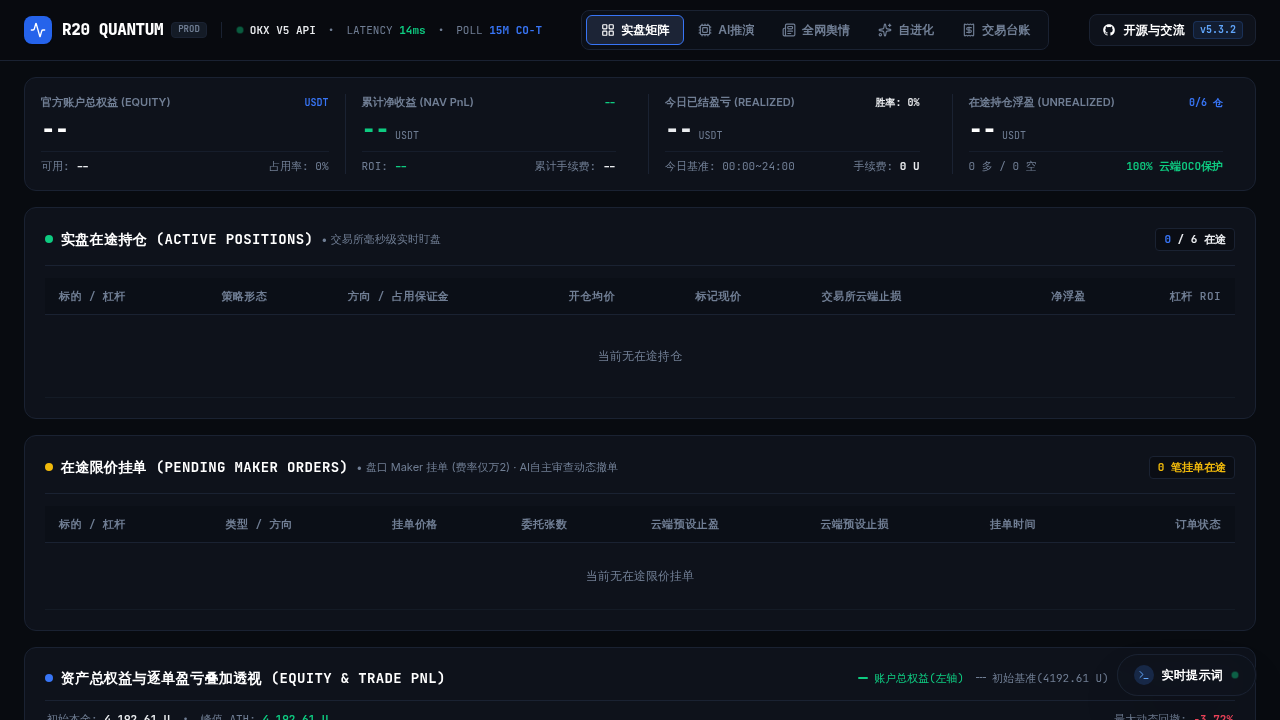
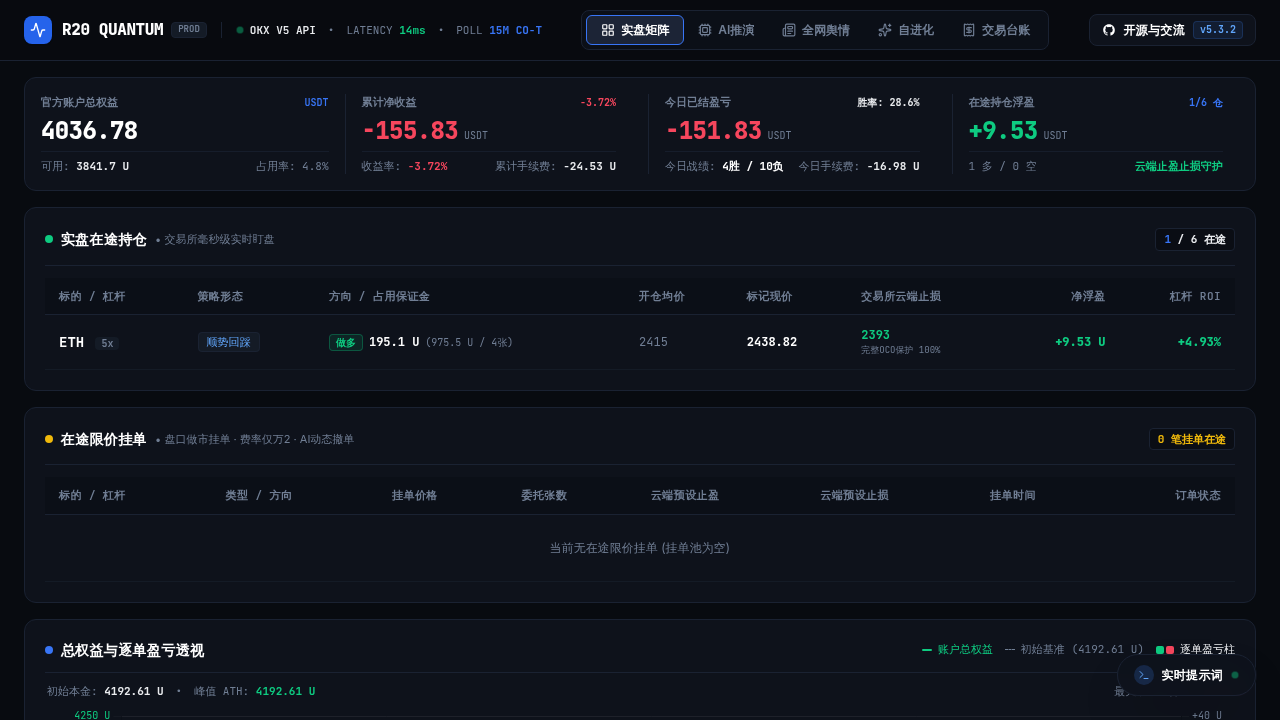
style(ui): simplify chart title, clean up KPI hero metrics layout, and remove redundant English label suffixes across all modules

diff --git a/dashboard/templates/index.html b/dashboard/templates/index.html
@@ -243,10 +243,10 @@
             <div class="terminal-panel p-3.5 sm:p-4">
                 <div class="grid grid-cols-2 lg:grid-cols-4 gap-3 sm:gap-4 divide-y lg:divide-y-0 lg:divide-x divide-[#1A2232]">
                     
-                    <!-- Tile 1: 账户总权益 (Total Equity) -->
+                    <!-- Tile 1: 官方账户总权益 -->
                     <div class="flex flex-col justify-between pt-2 lg:pt-0 lg:px-2 first:pt-0 first:px-0">
                         <div class="flex items-center justify-between text-[11px] text-[#707E94] font-semibold">
-                            <span>官方账户总权益 (EQUITY)</span>
+                            <span>官方账户总权益</span>
                             <span class="font-mono text-[10px] text-[#3875F6]">USDT</span>
                         </div>
                         <div class="my-1">
@@ -254,14 +254,14 @@
                         </div>
                         <div class="flex items-center justify-between text-[11px] font-mono text-[#707E94] pt-1.5 border-t border-[#161D2B]">
                             <span>可用: <strong id="metric-avail" class="text-[#EAECEF]">--</strong></span>
-                            <span id="metric-margin-usage" class="text-[#707E94]">占用率: 0%</span>
+                            <span id="metric-margin-usage" class="text-[#707E94]">保证金占用: 0%</span>
                         </div>
                     </div>
 
-                    <!-- Tile 2: 累计净收益 (NAV Return) -->
+                    <!-- Tile 2: 累计净收益 -->
                     <div class="flex flex-col justify-between pt-2 lg:pt-0 lg:px-4">
                         <div class="flex items-center justify-between text-[11px] text-[#707E94] font-semibold">
-                            <span>累计净收益 (NAV PnL)</span>
+                            <span>累计净收益</span>
                             <span id="metric-cum-roi" class="font-mono text-[10px] font-bold text-[#0ECB81]">--</span>
                         </div>
                         <div class="my-1 flex items-baseline space-x-1.5">
@@ -269,15 +269,15 @@
                             <span class="text-[10px] font-mono text-[#707E94]">USDT</span>
                         </div>
                         <div class="flex items-center justify-between text-[11px] font-mono text-[#707E94] pt-1.5 border-t border-[#161D2B]">
-                            <span>ROI: <strong id="metric-cum-roi-label" class="text-[#0ECB81]">--</strong></span>
+                            <span>收益率: <strong id="metric-cum-roi-label" class="text-[#0ECB81]">--</strong></span>
                             <span>累计手续费: <strong id="metric-cum-fees" class="text-[#EAECEF]">--</strong></span>
                         </div>
                     </div>
 
-                    <!-- Tile 3: 今日已结盈亏 (Realized PnL) -->
+                    <!-- Tile 3: 今日已结盈亏 -->
                     <div class="flex flex-col justify-between pt-2 lg:pt-0 lg:px-4">
                         <div class="flex items-center justify-between text-[11px] text-[#707E94] font-semibold">
-                            <span>今日已结盈亏 (REALIZED)</span>
+                            <span>今日已结盈亏</span>
                             <span id="metric-today-wr" class="font-mono text-[10px] font-bold text-[#EAECEF]">胜率: 0%</span>
                         </div>
                         <div class="my-1 flex items-baseline space-x-1.5">
@@ -285,15 +285,15 @@
                             <span class="text-[10px] font-mono text-[#707E94]">USDT</span>
                         </div>
                         <div class="flex items-center justify-between text-[11px] font-mono text-[#707E94] pt-1.5 border-t border-[#161D2B]">
-                            <span class="text-[#707E94]">今日基准: 00:00~24:00</span>
-                            <span>手续费: <strong id="metric-fees" class="text-[#EAECEF]">0 U</strong></span>
+                            <span>今日战绩: <strong id="metric-today-record" class="text-white">0胜 / 0负</strong></span>
+                            <span>今日手续费: <strong id="metric-fees" class="text-[#EAECEF]">0 U</strong></span>
                         </div>
                     </div>
 
-                    <!-- Tile 4: 在途持仓浮盈 (Active Positions & UPL) -->
+                    <!-- Tile 4: 在途持仓浮盈 -->
                     <div class="flex flex-col justify-between pt-2 lg:pt-0 lg:px-4">
                         <div class="flex items-center justify-between text-[11px] text-[#707E94] font-semibold">
-                            <span>在途持仓浮盈 (UNREALIZED)</span>
+                            <span>在途持仓浮盈</span>
                             <span id="metric-pos-count" class="font-mono text-[10px] font-bold text-[#3875F6]">0/6 仓</span>
                         </div>
                         <div class="my-1 flex items-baseline space-x-1.5">
@@ -302,19 +302,19 @@
                         </div>
                         <div class="flex items-center justify-between text-[11px] font-mono text-[#707E94] pt-1.5 border-t border-[#161D2B]">
                             <span id="metric-pos-direction">0 多 / 0 空</span>
-                            <span class="text-[#0ECB81] font-semibold">100% 云端OCO保护</span>
+                            <span class="text-[#0ECB81] font-semibold">云端止盈止损守护</span>
                         </div>
                     </div>
 
                 </div>
             </div>
             
-            <!-- 1. 实盘活动持仓 (Active Positions) -->
+            <!-- 1. 实盘在途持仓 -->
             <div class="terminal-panel p-4 sm:p-5">
                 <div class="flex items-center justify-between pb-3.5 mb-3 border-b border-[#1A2232]">
                     <div class="flex items-center space-x-2">
                         <div class="w-2 h-2 rounded-full bg-[#0ECB81]"></div>
-                        <h2 class="text-xs sm:text-sm font-bold text-white font-mono tracking-wide uppercase">实盘在途持仓 (Active Positions)</h2>
+                        <h2 class="text-xs sm:text-sm font-bold text-white font-mono tracking-wide">实盘在途持仓</h2>
                         <span class="text-[11px] text-[#707E94] hidden sm:inline">• 交易所毫秒级实时盯盘</span>
                     </div>
                     <div class="flex items-center space-x-2">
@@ -351,13 +351,13 @@
                 </div>
             </div>
 
-            <!-- 2. 在途限价挂单 (Pending Maker Orders) -->
+            <!-- 2. 在途限价挂单 -->
             <div class="terminal-panel p-4 sm:p-5">
                 <div class="flex items-center justify-between pb-3.5 mb-3 border-b border-[#1A2232]">
                     <div class="flex items-center space-x-2">
                         <div class="w-2 h-2 rounded-full bg-[#F0B90B]"></div>
-                        <h2 class="text-xs sm:text-sm font-bold text-white font-mono tracking-wide uppercase">在途限价挂单 (Pending Maker Orders)</h2>
-                        <span class="text-[11px] text-[#707E94] hidden sm:inline">• 盘口 Maker 挂单 (费率仅万2) · AI自主审查动态撤单</span>
+                        <h2 class="text-xs sm:text-sm font-bold text-white font-mono tracking-wide">在途限价挂单</h2>
+                        <span class="text-[11px] text-[#707E94] hidden sm:inline">• 盘口做市挂单 · 费率仅万2 · AI动态撤单</span>
                     </div>
                     <span class="px-2 py-0.5 rounded text-[11px] font-mono font-bold bg-[#0A0D14] text-[#F0B90B] border border-[#1A2232]">
                         <span id="pending-orders-count">0</span> 笔挂单在途
@@ -391,24 +391,24 @@
                 </div>
             </div>
 
-            <!-- 3. 资产总权益与逐单盈亏叠加透视 (Equity & Trade PnL Combo) -->
+            <!-- 3. 资产总权益与逐单盈亏 -->
             <div class="terminal-panel p-4 sm:p-5">
                 <div class="flex flex-col sm:flex-row sm:items-center justify-between gap-2.5 pb-3 mb-2.5 border-b border-[#1A2232]">
                     <div class="flex items-center space-x-2">
                         <div class="w-2 h-2 rounded-full bg-[#3875F6]"></div>
-                        <h2 class="text-xs sm:text-sm font-bold text-white font-mono tracking-wide uppercase">资产总权益与逐单盈亏叠加透视 (Equity & Trade PnL)</h2>
+                        <h2 class="text-xs sm:text-sm font-bold text-white font-mono tracking-wide">总权益与逐单盈亏透视</h2>
                     </div>
 
                     <!-- Clean Dual-Axis Legend -->
                     <div class="flex items-center space-x-3 text-[11px] font-mono">
                         <span class="inline-flex items-center text-[#0ECB81]">
-                            <span class="w-2.5 h-0.5 bg-[#0ECB81] mr-1.5 rounded-full"></span> 账户总权益(左轴)
+                            <span class="w-2.5 h-0.5 bg-[#0ECB81] mr-1.5 rounded-full"></span> 账户总权益
                         </span>
                         <span class="inline-flex items-center text-[#707E94]">
-                            <span class="w-2.5 h-0.5 border-t border-dashed border-[#707E94] mr-1.5"></span> 初始基准(4192.61 U)
+                            <span class="w-2.5 h-0.5 border-t border-dashed border-[#707E94] mr-1.5"></span> 初始基准 (4192.61 U)
                         </span>
                         <span class="inline-flex items-center text-[#EAECEF]">
-                            <span class="w-2 h-2 bg-[#0ECB81] mr-0.5 rounded-sm"></span><span class="w-2 h-2 bg-[#F6465D] mr-1.5 rounded-sm"></span> 逐单盈亏柱(右轴)
+                            <span class="w-2 h-2 bg-[#0ECB81] mr-0.5 rounded-sm"></span><span class="w-2 h-2 bg-[#F6465D] mr-1.5 rounded-sm"></span> 逐单盈亏柱
                         </span>
                     </div>
                 </div>
@@ -440,7 +440,7 @@
                 <div class="flex items-center justify-between pb-3.5 mb-3 border-b border-[#1A2232]">
                     <div class="flex items-center space-x-2">
                         <div class="w-2 h-2 rounded-full bg-[#3875F6]"></div>
-                        <h2 class="text-xs sm:text-sm font-bold text-white font-mono tracking-wide uppercase">AI 大脑实时决策与全维因子矩阵 (6 大核心加密资产)</h2>
+                        <h2 class="text-xs sm:text-sm font-bold text-white font-mono tracking-wide">AI 大脑实时决策与全维因子矩阵 (6 大核心加密资产)</h2>
                     </div>
                     <div class="flex items-center space-x-2">
                         <div class="hidden sm:flex items-center space-x-1.5 px-2 py-0.5 rounded bg-[#0A0D14] border border-[#1A2232] text-xs font-mono">
@@ -464,7 +464,7 @@
                 <div class="flex items-center justify-between pb-3.5 mb-3 border-b border-[#1A2232]">
                     <div class="flex items-center space-x-2">
                         <div class="w-2 h-2 rounded-full bg-cyan-400"></div>
-                        <h2 class="text-xs sm:text-sm font-bold text-white font-mono tracking-wide uppercase">AI 大脑历史决策推演审计流 (Decision Audit Log)</h2>
+                        <h2 class="text-xs sm:text-sm font-bold text-white font-mono tracking-wide">AI 大脑历史决策推演审计流</h2>
                     </div>
                 </div>
                 <div id="ai-history-timeline" class="space-y-3 max-h-[420px] overflow-y-auto custom-scrollbar pr-1">
@@ -481,7 +481,7 @@
                 <div class="flex items-center justify-between pb-3.5 mb-3 border-b border-[#1A2232]">
                     <div class="flex items-center space-x-2">
                         <div class="w-2 h-2 rounded-full bg-[#F0B90B]"></div>
-                        <h2 class="text-xs sm:text-sm font-bold text-white font-mono tracking-wide uppercase">全网重大资讯与多币种舆情指数 (News Intelligence)</h2>
+                        <h2 class="text-xs sm:text-sm font-bold text-white font-mono tracking-wide">全网重大资讯与多币种舆情指数</h2>
                     </div>
                     <div class="text-xs font-mono text-[#707E94]">
                         宏观环境: <strong id="news-macro-env" class="text-[#0ECB81]">偏多震荡</strong>
@@ -492,7 +492,7 @@
                     <!-- Left: Coins Sentiment (5 cols) -->
                     <div class="lg:col-span-5 terminal-subpanel p-3.5">
                         <div class="flex items-center justify-between mb-2.5 pb-2 border-b border-[#161D2B]">
-                            <h3 class="text-xs font-bold text-white font-mono uppercase">标的多空情绪指数</h3>
+                            <h3 class="text-xs font-bold text-white font-mono">标的多空情绪指数</h3>
                             <span id="news-sentiment-time" class="text-[10px] font-mono text-[#707E94]">--</span>
                         </div>
                         <div id="coin-sentiments-grid" class="grid grid-cols-2 sm:grid-cols-5 gap-2">
@@ -503,7 +503,7 @@
                     <!-- Right: News Feed (7 cols) -->
                     <div class="lg:col-span-7 terminal-subpanel p-3.5 flex flex-col justify-between">
                         <div class="flex items-center justify-between mb-2.5 pb-2 border-b border-[#161D2B]">
-                            <h3 class="text-xs font-bold text-white font-mono uppercase">24H 重点快讯情报流</h3>
+                            <h3 class="text-xs font-bold text-white font-mono">24H 重点快讯情报流</h3>
                             <span id="news-feed-time" class="text-[10px] font-mono text-[#3875F6]">实时抓取</span>
                         </div>
                         <div id="news-headlines-container" class="space-y-2 max-h-[340px] overflow-y-auto custom-scrollbar pr-1">
@@ -523,7 +523,7 @@
                 <div class="flex items-center justify-between pb-3.5 mb-3 border-b border-[#1A2232]">
                     <div class="flex items-center space-x-2">
                         <div class="w-2 h-2 rounded-full bg-purple-400"></div>
-                        <h2 class="text-xs sm:text-sm font-bold text-white font-mono tracking-wide uppercase">AI 交易大脑启发式长期记忆库 (AI Trading Memory)</h2>
+                        <h2 class="text-xs sm:text-sm font-bold text-white font-mono tracking-wide">AI 交易大脑启发式长期记忆库</h2>
                     </div>
                     <div class="flex items-center space-x-2">
                         <div class="hidden sm:flex items-center space-x-1.5 px-2 py-0.5 rounded bg-[#0A0D14] border border-[#1A2232] text-xs font-mono">
@@ -547,7 +547,7 @@
                 <div class="flex items-center justify-between pb-3.5 mb-3 border-b border-[#1A2232]">
                     <div class="flex items-center space-x-2">
                         <div class="w-2 h-2 rounded-full bg-indigo-400"></div>
-                        <h2 class="text-xs sm:text-sm font-bold text-white font-mono tracking-wide uppercase">AI 认知复盘与痛点归因 (Cognitive Post-Mortem)</h2>
+                        <h2 class="text-xs sm:text-sm font-bold text-white font-mono tracking-wide">AI 认知复盘与痛点归因</h2>
                     </div>
                     <div class="text-xs font-mono text-[#707E94] hidden sm:flex items-center space-x-1.5">
                         <span>决策机制:</span>
@@ -557,7 +557,7 @@
 
                 <div class="terminal-subpanel p-3.5">
                     <div class="flex items-center justify-between mb-2.5 pb-2 border-b border-[#161D2B]">
-                        <h3 class="text-xs font-bold text-white font-mono uppercase">AI 逐单归因与痛点诊断</h3>
+                        <h3 class="text-xs font-bold text-white font-mono">AI 逐单归因与痛点诊断</h3>
                         <span id="lab-insights-time" class="text-[10px] font-mono text-[#707E94]">--</span>
                     </div>
                     <div id="ai-insights-container" class="space-y-2 text-xs max-h-[300px] overflow-y-auto custom-scrollbar pr-1">
@@ -568,7 +568,7 @@
 
             <!-- 3. Performance Leaderboard -->
             <div class="terminal-panel p-4 sm:p-5">
-                <h3 class="text-xs sm:text-sm font-bold text-white font-mono uppercase mb-3">标的盈亏与胜率贡献榜</h3>
+                <h3 class="text-xs sm:text-sm font-bold text-white font-mono mb-3">标的盈亏与胜率贡献榜</h3>
                 <div class="overflow-x-auto custom-scrollbar">
                     <table class="w-full text-left font-mono">
                         <thead>
@@ -597,7 +597,7 @@
                 <div class="flex flex-col sm:flex-row sm:items-center justify-between gap-2.5 pb-3.5 mb-3 border-b border-[#1A2232]">
                     <div class="flex items-center space-x-2">
                         <div class="w-2 h-2 rounded-full bg-blue-500"></div>
-                        <h2 class="text-xs sm:text-sm font-bold text-white font-mono tracking-wide uppercase">生命周期交易台账 (Lifecycle Trades)</h2>
+                        <h2 class="text-xs sm:text-sm font-bold text-white font-mono tracking-wide">生命周期交易台账</h2>
                     </div>
                     
                     <!-- Search & Filter Pill Buttons -->
@@ -636,7 +636,7 @@
                 <div class="flex items-center justify-between pb-3.5 mb-3 border-b border-[#1A2232]">
                     <div class="flex items-center space-x-2">
                         <i data-lucide="terminal" class="w-3.5 h-3.5 text-blue-400"></i>
-                        <h3 class="text-xs font-bold text-white font-mono tracking-wide uppercase">R20 AI 大脑量化引擎巡检日志</h3>
+                        <h3 class="text-xs font-bold text-white font-mono tracking-wide">AI 大脑量化引擎巡检日志</h3>
                     </div>
                 </div>
                 <div id="logs-container" class="terminal-subpanel text-[#EAECEF] p-3.5 font-mono text-xs max-h-60 overflow-y-auto custom-scrollbar space-y-1">
@@ -1121,7 +1121,9 @@
                     todayPnlEl.className = `text-xl sm:text-2xl font-extrabold font-mono tracking-tight ${todayPnl >= 0 ? 'text-[#0ECB81]' : 'text-[#F6465D]'}`;
                 }
                 const todayWrEl = document.getElementById('metric-today-wr');
-                if (todayWrEl) todayWrEl.innerText = `胜率: ${todayWr.toFixed(1)}% (${todayWins}胜/${todayLosses}负)`;
+                if (todayWrEl) todayWrEl.innerText = `胜率: ${todayWr.toFixed(1)}%`;
+                const todayRecEl = document.getElementById('metric-today-record');
+                if (todayRecEl) todayRecEl.innerText = `${todayWins}胜 / ${todayLosses}负`;
                 const todayFeeEl = document.getElementById('metric-fees');
                 if (todayFeeEl) todayFeeEl.innerText = `${todayFee.toFixed(2)} U`;
 
